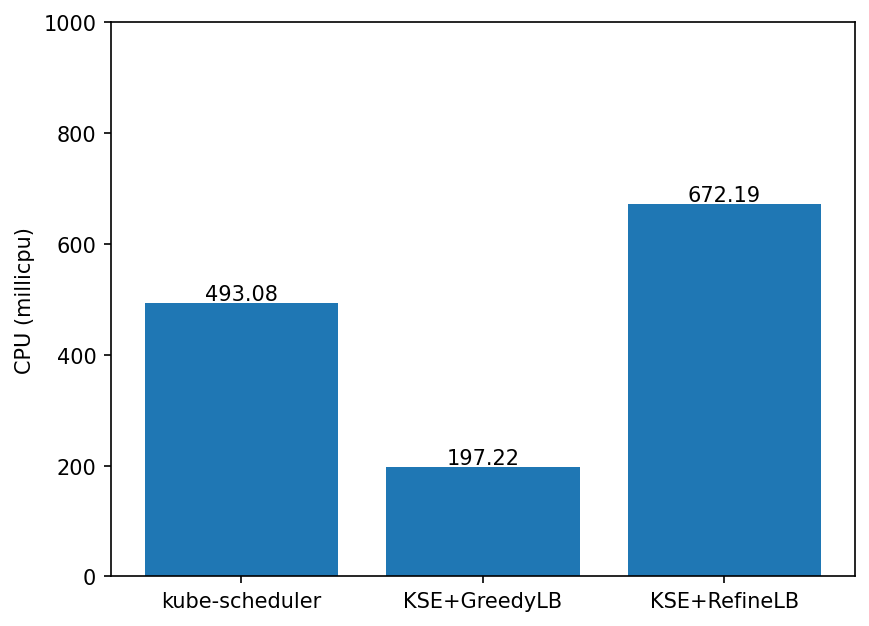
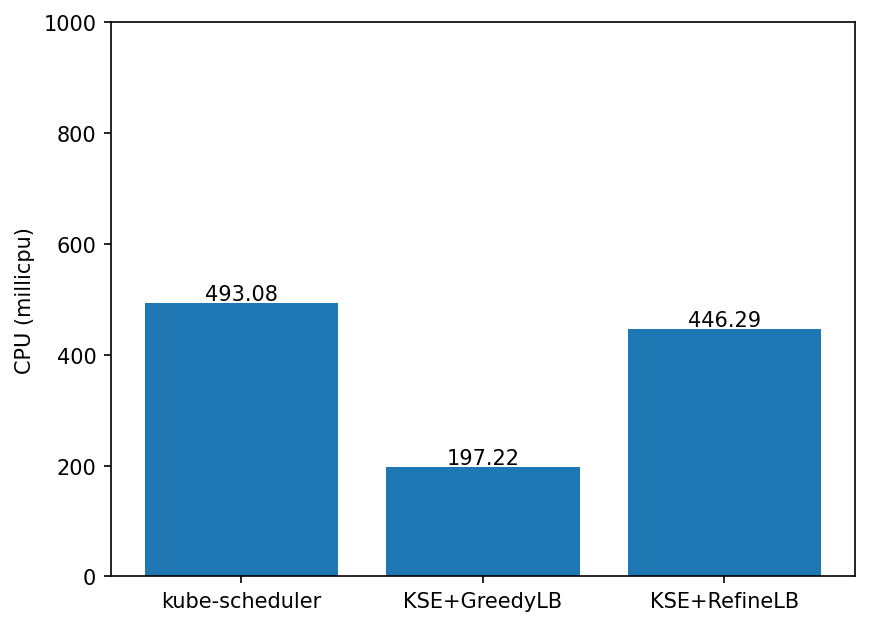
update

Changed region(s): [[0.7146, 0.2732, 0.9632, 0.5463]]

diff --git a/results/summary_kse-RefineLB_20_20_constant_exponential_cpu.html b/results/summary_kse-RefineLB_20_20_constant_exponential_cpu.html
@@ -152,14 +152,14 @@
         <div class="box">
           <i class="fas fa-globe icon"></i>
           <h4>Total Requests</h4>
-          <div class="bignum">12000</div>
+          <div class="bignum">12001</div>
           
         </div>
         
           <div class="box failed">
             <i class="far fa-times-circle icon"></i>
             <h4>Failed Requests</h4>
-            <div class="bignum">32</div>
+            <div class="bignum">9</div>
           </div> 
              
         <div class="box good">
@@ -206,15 +206,15 @@
                     
                     
                     
-                      <td class="">142.84 ms</td>
+                      <td class="">137.32 ms</td>
                     
     
                     
-                      <td class="">2342.09 ms</td>
+                      <td class="">1315.27 ms</td>
                       
     
                     
-                      <td class="">138.10 ms</td>
+                      <td class="">137.85 ms</td>
                       
                     
                     
@@ -222,11 +222,11 @@
                        
                                   
                     
-                      <td class="">164.36 ms</td>
+                      <td class="">162.78 ms</td>
                     
     
                     
-                      <td class="">177.37 ms</td>
+                      <td class="">172.82 ms</td>
                     
                   </tr>
                 
@@ -242,15 +242,15 @@
                     
                     
                     
-                      <td class="">142.70 ms</td>
+                      <td class="">137.18 ms</td>
                     
     
                     
-                      <td class="">2341.94 ms</td>
+                      <td class="">1315.13 ms</td>
                       
     
                     
-                      <td class="">137.96 ms</td>
+                      <td class="">137.71 ms</td>
                       
                     
                     
@@ -258,11 +258,11 @@
                        
                                   
                     
-                      <td class="">164.21 ms</td>
+                      <td class="">162.65 ms</td>
                     
     
                     
-                      <td class="">177.19 ms</td>
+                      <td class="">172.68 ms</td>
                     
                   </tr>
                 
@@ -278,15 +278,15 @@
                     
                     
                     
-                      <td class="">1.42 ms</td>
+                      <td class="">1.46 ms</td>
                     
     
                     
-                      <td class="">5.99 ms</td>
+                      <td class="">8.79 ms</td>
                       
     
                     
-                      <td class="">1.52 ms</td>
+                      <td class="">1.55 ms</td>
                       
                     
                     
@@ -294,11 +294,11 @@
                        
                                   
                     
-                      <td class="">2.02 ms</td>
+                      <td class="">2.13 ms</td>
                     
     
                     
-                      <td class="">2.17 ms</td>
+                      <td class="">2.26 ms</td>
                     
                   </tr>
                 
@@ -354,7 +354,7 @@
                     
     
                     
-                      <td class="">2.93 ms</td>
+                      <td class="">5.27 ms</td>
                       
     
                     
@@ -366,11 +366,11 @@
                        
                                   
                     
-                      <td class="">0.12 ms</td>
+                      <td class="">0.11 ms</td>
                     
     
                     
-                      <td class="">0.14 ms</td>
+                      <td class="">0.13 ms</td>
                     
                   </tr>
                 
@@ -386,11 +386,11 @@
                     
                     
                     
-                      <td class="">0.06 ms</td>
+                      <td class="">0.07 ms</td>
                     
     
                     
-                      <td class="">0.43 ms</td>
+                      <td class="">6.79 ms</td>
                       
     
                     
@@ -422,15 +422,15 @@
                     
                     
                     
-                      <td class="">1.51 ms</td>
+                      <td class="">1.55 ms</td>
                     
     
                     
-                      <td class="">6.10 ms</td>
+                      <td class="">8.88 ms</td>
                       
     
                     
-                      <td class="">1.62 ms</td>
+                      <td class="">1.65 ms</td>
                       
                     
                     
@@ -438,11 +438,11 @@
                        
                                   
                     
-                      <td class="">2.13 ms</td>
+                      <td class="">2.24 ms</td>
                     
     
                     
-                      <td class="">2.28 ms</td>
+                      <td class="">2.37 ms</td>
                     
                   </tr>
                 
@@ -458,27 +458,27 @@
                     
                     
                     
-                      <td class="">144.51 ms</td>
+                      <td class="">139.04 ms</td>
                     
     
                     
-                      <td class="">2343.70 ms</td>
+                      <td class="">1317.34 ms</td>
                       
     
                     
-                      <td class="">139.72 ms</td>
+                      <td class="">139.51 ms</td>
                       
                     
                     
-                      <td class="">1.64 ms</td>
+                      <td class="">1.34 ms</td>
                        
                                   
                     
-                      <td class="">166.09 ms</td>
+                      <td class="">164.49 ms</td>
                     
     
                     
-                      <td class="">179.10 ms</td>
+                      <td class="">174.72 ms</td>
                     
                   </tr>
                 
@@ -497,7 +497,7 @@
               <div class="box info">
                 <h4>Iterations</h4>
                 <i class="fas fa-redo icon"></i>
-                <div class="row"><div>Total</div><div>12000</div></div>
+                <div class="row"><div>Total</div><div>12001</div></div>
                 <div class="row"><div>Rate</div><div>20.00/s</div></div>
               </div>
             
@@ -512,7 +512,7 @@
             <div class="box info">
               <h4>Requests</h4>
               <i class="fas fa-globe icon"></i>
-              <div class="row"><div>Total</div><div>12000</div></div>
+              <div class="row"><div>Total</div><div>12001</div></div>
               <div class="row"><div>Rate</div><div>20.00/s</div></div>
             </div>
             <div class="box info">
